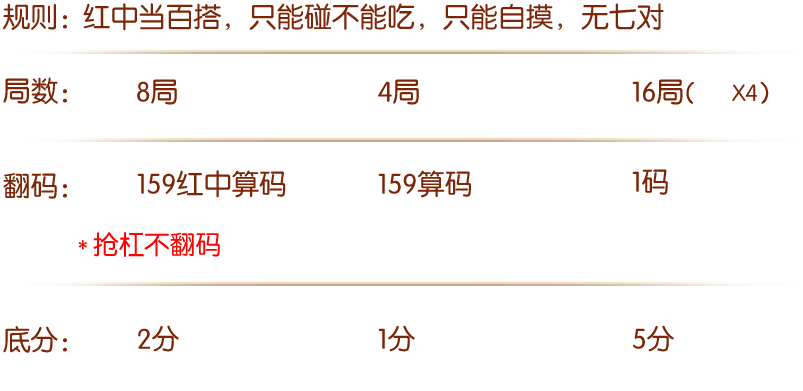
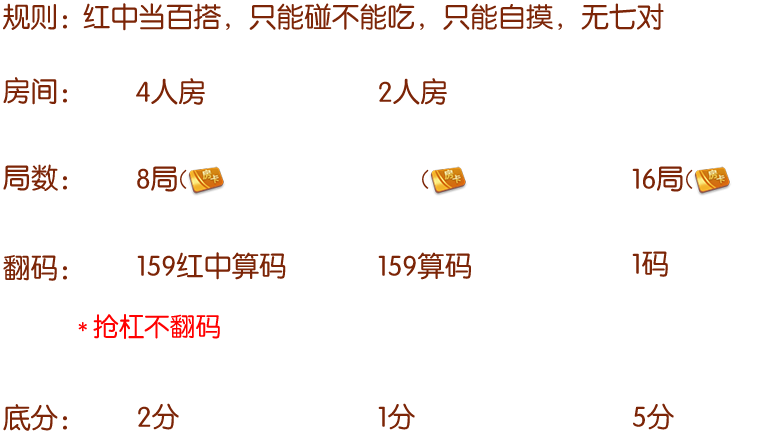
好友开房界面调整

diff --git a/Mahjong/Classes/mahjong/lobby/friend/FriendRoom.cpp b/Mahjong/Classes/mahjong/lobby/friend/FriendRoom.cpp
@@ -40,35 +40,35 @@ bool FriendRoom::init()
     
     auto fangka8 = MenuItemImage::create("openroom/select_box_normal.png","openroom/select_box_normal.png",CC_CALLBACK_0(FriendRoom::selectFangka8, this));
     auto fangka8Menu = Menu::create(fangka8,NULL);
-    fangka8Menu->setPosition(458,475);
+    fangka8Menu->setPosition(470,405);
     addChild(fangka8Menu);
     
     auto select8 = Sprite::create("openroom/icon_right.png");
     select8->setTag(1024);
-    select8->setPosition(458,475);
+    select8->setPosition(470,405);
     select8->setVisible(true);
     addChild(select8);
     
     auto fangka4 = MenuItemImage::create("openroom/select_box_normal.png","openroom/select_box_normal.png",CC_CALLBACK_0(FriendRoom::selectFangka4, this));
     auto fangka4Menu = Menu::create(fangka4,NULL);
-    fangka4Menu->setPosition(695,475);
+    fangka4Menu->setPosition(705,405);
     addChild(fangka4Menu);
     
     auto select4 = Sprite::create("openroom/icon_right.png");
     select4->setTag(1025);
-    select4->setPosition(695,475);
+    select4->setPosition(705,405);
     select4->setVisible(false);
     addChild(select4);
     
     
     auto fangka16 = MenuItemImage::create("openroom/select_box_normal.png","openroom/select_box_normal.png",CC_CALLBACK_0(FriendRoom::selectFangka16, this));
     auto fangka16Menu = Menu::create(fangka16,NULL);
-    fangka16Menu->setPosition(950,475);
+    fangka16Menu->setPosition(960,405);
     addChild(fangka16Menu);
     
     auto select16 = Sprite::create("openroom/icon_right.png");
     select16->setTag(1026);
-    select16->setPosition(950,475);
+    select16->setPosition(960,405);
     select16->setVisible(false);
     addChild(select16);
     
@@ -83,12 +83,12 @@ bool FriendRoom::init()
     auto leziwu11 = MenuItemImage::create("openroom/select_box_normal.png","openroom/select_box_normal.png",CC_CALLBACK_0(FriendRoom::selectLeziType1, this));
     auto leziwuMenu11 = Menu::create(leziwu11,NULL);
     leziwuMenu11->setTag(2023);
-    leziwuMenu11->setPosition(458,390);
+    leziwuMenu11->setPosition(470,320);
     addChild(leziwuMenu11);
     
     auto leziwuImg11 = Sprite::create("openroom/icon_right.png");
     leziwuImg11->setTag(2024);
-    leziwuImg11->setPosition(458,390);
+    leziwuImg11->setPosition(470,320);
     leziwuImg11->setVisible(true);
     addChild(leziwuImg11);
     
@@ -96,12 +96,12 @@ bool FriendRoom::init()
     auto lezi1120 = MenuItemImage::create("openroom/select_box_normal.png","openroom/select_box_normal.png",CC_CALLBACK_0(FriendRoom::selectLeziType2, this));
     auto lezi1120Menu = Menu::create(lezi1120,NULL);
     lezi1120Menu->setTag(2025);
-    lezi1120Menu->setPosition(695,390);
+    lezi1120Menu->setPosition(705,320);
     addChild(lezi1120Menu);
     
     auto lezi1120Img = Sprite::create("openroom/icon_right.png");
     lezi1120Img->setTag(2026);
-    lezi1120Img->setPosition(695,390);
+    lezi1120Img->setPosition(705,320);
     lezi1120Img->setVisible(false);
     addChild(lezi1120Img);
     
@@ -110,12 +110,12 @@ bool FriendRoom::init()
     auto lezi1150 = MenuItemImage::create("openroom/select_box_normal.png","openroom/select_box_normal.png",CC_CALLBACK_0(FriendRoom::selectLeziType3, this));
     auto lezi1150Menu = Menu::create(lezi1150,NULL);
     lezi1150Menu->setTag(2027);
-    lezi1150Menu->setPosition(950,390);
+    lezi1150Menu->setPosition(960,320);
     addChild(lezi1150Menu);
     
     auto lezi1150Img = Sprite::create("openroom/icon_right.png");
     lezi1150Img->setTag(2028);
-    lezi1150Img->setPosition(950,390);
+    lezi1150Img->setPosition(960,320);
     lezi1150Img->setVisible(false);
     addChild(lezi1150Img);
 
@@ -126,12 +126,12 @@ bool FriendRoom::init()
     auto lezi2240 = MenuItemImage::create("openroom/select_box_normal.png","openroom/select_box_normal.png",CC_CALLBACK_0(FriendRoom::selectLeziType5, this));
     auto lezi2240Menu = Menu::create(lezi2240,NULL);
     lezi2240Menu->setTag(2031);
-    lezi2240Menu->setPosition(458,310);
+    lezi2240Menu->setPosition(470,240);
     addChild(lezi2240Menu);
     
     auto lezi2240Img = Sprite::create("openroom/icon_right.png");
     lezi2240Img->setTag(2032);
-    lezi2240Img->setPosition(458,310);
+    lezi2240Img->setPosition(470,240);
     lezi2240Img->setVisible(false);
     addChild(lezi2240Img);
     
@@ -139,12 +139,12 @@ bool FriendRoom::init()
     auto lezi22100 = MenuItemImage::create("openroom/select_box_normal.png","openroom/select_box_normal.png",CC_CALLBACK_0(FriendRoom::selectLeziType6, this));
     auto lezi22100Menu = Menu::create(lezi22100,NULL);
     lezi22100Menu->setTag(2033);
-    lezi22100Menu->setPosition(695,310);
+    lezi22100Menu->setPosition(705,240);
     addChild(lezi22100Menu);
     
     auto lezi22100Img = Sprite::create("openroom/icon_right.png");
     lezi22100Img->setTag(2034);
-    lezi22100Img->setPosition(695,310);
+    lezi22100Img->setPosition(705,240);
     lezi22100Img->setVisible(false);
     addChild(lezi22100Img);
     
@@ -152,25 +152,25 @@ bool FriendRoom::init()
     auto wukaibao = MenuItemImage::create("openroom/select_box_normal.png","openroom/select_box_normal.png",CC_CALLBACK_0(FriendRoom::selectWukaibao, this));
     auto wukaibaoMenu = Menu::create(wukaibao,NULL);
     wukaibaoMenu->setTag(2035);
-    wukaibaoMenu->setPosition(458,230);
+    wukaibaoMenu->setPosition(470,160);
     addChild(wukaibaoMenu);
     
     auto selectWukaibao = Sprite::create("openroom/icon_right.png");
     selectWukaibao->setTag(2036);
-    selectWukaibao->setPosition(458,230);
+    selectWukaibao->setPosition(470,160);
     selectWukaibao->setVisible(false);
     addChild(selectWukaibao);
     
     //二摸三冲
     auto mo2chong3 = MenuItemImage::create("openroom/select_box_normal.png","openroom/select_box_normal.png",CC_CALLBACK_0(FriendRoom::select2mo3chong, this));
     auto mo2chong3Menu = Menu::create(mo2chong3,NULL);
-    mo2chong3Menu->setPosition(695,230);
+    mo2chong3Menu->setPosition(705,160);
     mo2chong3Menu->setTag(2037);
     addChild(mo2chong3Menu);
     
     auto selectmo2chong3 = Sprite::create("openroom/icon_right.png");
     selectmo2chong3->setTag(2038);
-    selectmo2chong3->setPosition(695,230);
+    selectmo2chong3->setPosition(705,160);
     selectmo2chong3->setVisible(false);
     addChild(selectmo2chong3);
     /** --------------------------上海麻将选择界面ui显示结束-------------------------- **/
@@ -184,65 +184,65 @@ bool FriendRoom::init()
     auto ma159zh = MenuItemImage::create("openroom/select_box_normal.png","openroom/select_box_normal.png",CC_CALLBACK_0(FriendRoom::selectMa159zh, this));
     auto ma159zhMenu = Menu::create(ma159zh,NULL);
     ma159zhMenu->setTag(3023);
-    ma159zhMenu->setPosition(458,387);
+    ma159zhMenu->setPosition(470,317);
     addChild(ma159zhMenu);
     ma159zhMenu->setVisible(false);
     
     auto ma159zhImg = Sprite::create("openroom/icon_right.png");
     ma159zhImg->setTag(3024);
-    ma159zhImg->setPosition(458,387);
+    ma159zhImg->setPosition(470,317);
     addChild(ma159zhImg);
     ma159zhImg->setVisible(false);
     
     auto ma159 = MenuItemImage::create("openroom/select_box_normal.png","openroom/select_box_normal.png",CC_CALLBACK_0(FriendRoom::selectMa159, this));
     auto ma159Menu = Menu::create(ma159,NULL);
     ma159Menu->setTag(3025);
-    ma159Menu->setPosition(695,387);
+    ma159Menu->setPosition(705,317);
     addChild(ma159Menu);
     ma159Menu->setVisible(false);
     
     auto ma159Img = Sprite::create("openroom/icon_right.png");
     ma159Img->setTag(3026);
-    ma159Img->setPosition(695,387);
+    ma159Img->setPosition(705,317);
     addChild(ma159Img);
     ma159Img->setVisible(false);
     
     auto ma1 = MenuItemImage::create("openroom/select_box_normal.png","openroom/select_box_normal.png",CC_CALLBACK_0(FriendRoom::selectMa1, this));
     auto ma1Menu = Menu::create(ma1,NULL);
     ma1Menu->setTag(3027);
-    ma1Menu->setPosition(950,387);
+    ma1Menu->setPosition(960,317);
     addChild(ma1Menu);
     ma1Menu->setVisible(false);
     
     auto ma1Img = Sprite::create("openroom/icon_right.png");
     ma1Img->setTag(3028);
-    ma1Img->setPosition(950,387);
+    ma1Img->setPosition(960,317);
     addChild(ma1Img);
     ma1Img->setVisible(false);
     
     auto di2 = MenuItemImage::create("openroom/select_box_normal.png","openroom/select_box_normal.png",CC_CALLBACK_0(FriendRoom::selectDifen2, this));
     auto di2Menu = Menu::create(di2,NULL);
     di2Menu->setTag(3029);
-    di2Menu->setPosition(458,235);
+    di2Menu->setPosition(470,165);
     addChild(di2Menu);
     di2Menu->setVisible(false);
     
     auto di2Img = Sprite::create("openroom/icon_right.png");
     di2Img->setTag(3030);
-    di2Img->setPosition(458,235);
+    di2Img->setPosition(470,165);
     addChild(di2Img);
     di2Img->setVisible(false);
     
     auto di1 = MenuItemImage::create("openroom/select_box_normal.png","openroom/select_box_normal.png",CC_CALLBACK_0(FriendRoom::selectDifen1, this));
     auto di1Menu = Menu::create(di1,NULL);
     di1Menu->setTag(3031);
-    di1Menu->setPosition(695,235);
+    di1Menu->setPosition(705,165);
     addChild(di1Menu);
     di1Menu->setVisible(false);
     
     auto di1Img = Sprite::create("openroom/icon_right.png");
     di1Img->setTag(3032);
-    di1Img->setPosition(695,235);
+    di1Img->setPosition(705,165);
     addChild(di1Img);
     di1Img->setVisible(false);
     
@@ -250,13 +250,13 @@ bool FriendRoom::init()
     auto di5 = MenuItemImage::create("openroom/select_box_normal.png","openroom/select_box_normal.png",CC_CALLBACK_0(FriendRoom::selectDifen5, this));
     auto di5Menu = Menu::create(di5,NULL);
     di5Menu->setTag(3033);
-    di5Menu->setPosition(950,235);
+    di5Menu->setPosition(960,165);
     addChild(di5Menu);
     di5Menu->setVisible(false);
     
     auto di5Img = Sprite::create("openroom/icon_right.png");
     di5Img->setTag(3034);
-    di5Img->setPosition(950,235);
+    di5Img->setPosition(960,165);
     addChild(di5Img);
     di5Img->setVisible(false);
     
@@ -267,7 +267,7 @@ bool FriendRoom::init()
     
     auto openBtn = MenuItemImage::create("openroom/open_room_btn_img_1.png", "openroom/open_room_btn_img_2.png", CC_CALLBACK_0(FriendRoom::openRoom, this));
     auto openMenu = Menu::create(openBtn,NULL);
-    openMenu->setPosition(640,105);
+    openMenu->setPosition(640,85);
     addChild(openMenu);
     
     auto touchListener = EventListenerTouchOneByOne::create();
@@ -426,7 +426,7 @@ void FriendRoom::openRoom(){
                 ifemsc = "0";
             }
         }
-        NetworkManage::getInstance()->sendMsg(CommandManage::getInstance()->getOpenRoomCommand(ftype,StringUtils::format("%d",iflezi),ifkb,ifemsc));
+        NetworkManage::getInstance()->sendMsg(CommandManage::getInstance()->getOpenRoomCommand(ftype,StringUtils::format("%d",iflezi),ifkb,ifemsc,"4"));
     }else{
         std::string fanma = "0";//0表示没有159zhong,1表示有159,2表示1码
         std::string difen = "2";

diff --git a/Mahjong/Classes/server/CommandManage.cpp b/Mahjong/Classes/server/CommandManage.cpp
@@ -180,7 +180,7 @@ std::string CommandManage::getChangeHeadCommand(std::string pic){
     return commandString(keyValue);
 }
 
-std::string CommandManage::getOpenRoomCommand(std::string ftype,std::string iflezi,std::string ifkb,std::string ifemsc){
+std::string CommandManage::getOpenRoomCommand(std::string ftype,std::string iflezi,std::string ifkb,std::string ifemsc,std::string size){
     std::map<std::string, std::string> keyValue;
     keyValue.insert(map<string, string>::value_type("code", StringUtil::itos(MSGCODE_FRIEND_GAME_REQUEST)));
     keyValue.insert(map<string, string>::value_type("poxiaoId", UserData::getInstance()->getPoxiaoId()));
@@ -189,6 +189,7 @@ std::string CommandManage::getOpenRoomCommand(std::string ftype,std::string ifle
     keyValue.insert(map<string, string>::value_type("ftype", ftype));
     keyValue.insert(map<string, string>::value_type("ifkb", ifkb));
     keyValue.insert(map<string, string>::value_type("ifemsc", ifemsc));
+     keyValue.insert(map<string, string>::value_type("size", size));
     return commandString(keyValue);
 }
 

diff --git a/Mahjong/Classes/server/CommandManage.h b/Mahjong/Classes/server/CommandManage.h
@@ -22,7 +22,7 @@ public:
 	std::string getQuitRoomCommand();//退出房间
 	std::string getChangeHeadCommand(std::string pic);//更换头像
     std::string getChangeGenderCommand(std::string gender);//更换性别
-	std::string getOpenRoomCommand(std::string ftype,std::string iflezi,std::string ifkb,std::string ifemsc);//开设房间
+    std::string getOpenRoomCommand(std::string ftype,std::string iflezi,std::string ifkb,std::string ifemsc,std::string size);//开设房间
 	std::string getEnterFriendRoomCommand(std::string pid);//进入私人房间
 	std::string getBillCommand();//账单
 	std::string getBillDetailCommand(std::string billId);//账单明细
